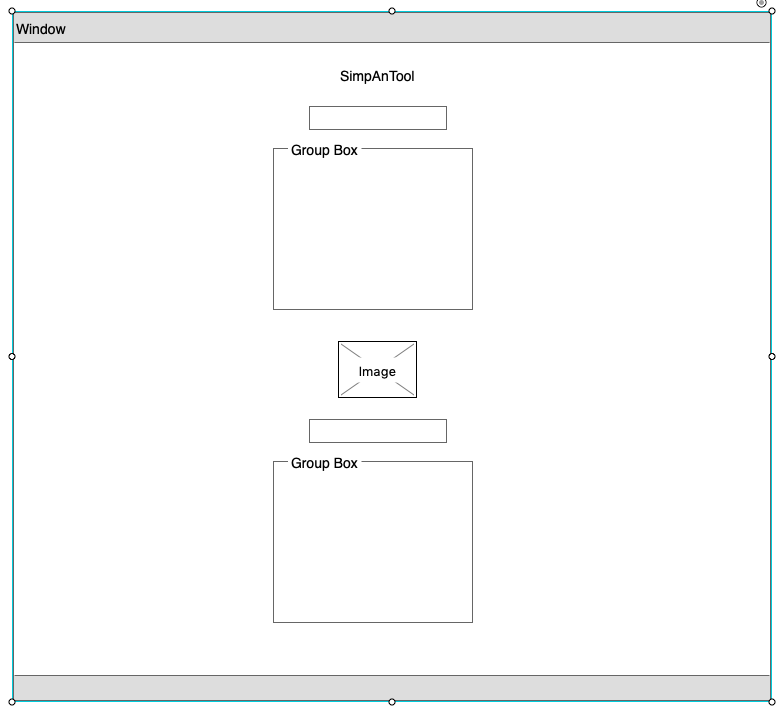
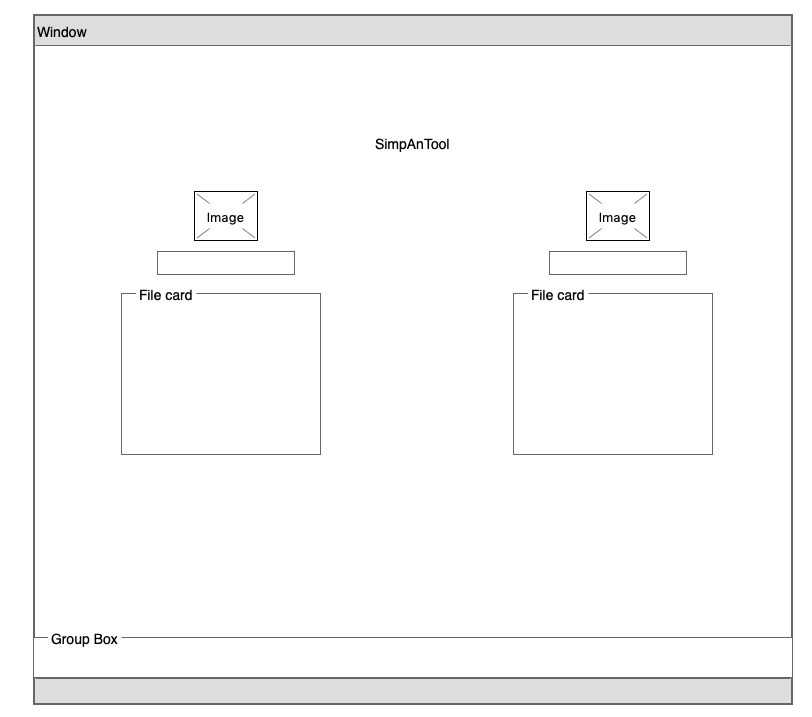
Second phase

diff --git a/client-side/src/container/App.js b/client-side/src/container/App.js
@@ -3,10 +3,10 @@ import { useState, useEffect } from 'react';
 import './App.css';
 import File from '../presentational/file';
 import logo from '../images/logo.png';
-import box from '../images/boxingGloves.jpg';
 import idNum from '../images/idNumber.png';
 import TextField from '@material-ui/core/TextField';
 import { makeStyles } from '@material-ui/core/styles';
+import Box from '@material-ui/core/Box';
 
 function App() {
 
@@ -16,7 +16,15 @@ function App() {
       marginLeft: theme.spacing(1),
       marginRight: theme.spacing(1),
       backgroundColor: 'white',
-      borderColor: 'black'
+      borderColor: 'black',
+    },
+    boxLeft: {
+      float: 'left',
+      marginTop: '3em'
+    },
+    boxRight: {
+      float: 'right',
+      marginTop: '2em'
     }
   }));
 
@@ -59,9 +67,9 @@ function App() {
 
   return (
     <div className="App">
-      <img src={logo} alt="logo"></img>
+      <img src={logo} alt="logo" style={{marginTop: '3em'}}></img>
       <br/>
-      {/* <label htmlFor="id">Search by ID number</label> */}
+      <Box width="45%" className={classes.boxLeft}>
       <img src={idNum} alt="Idnum"></img>
       <br/>
       <TextField
@@ -78,11 +86,9 @@ function App() {
       {filterFiles.length > 0 ? filterFiles.map( file => {
         return <File key={file.id} file={file}></File>
       }) : <h1><span role="img" aria-label="boom">💥</span>No record matches the ID Number!!</h1>}
+      </Box>
       <br/>
-      <img src={box} alt="box" style={{width: '5em'}}></img>
-      <br/>
-      <br/>
-      <br/>
+      <Box width="45%" className={classes.boxRight}>
       <img src={idNum} alt="Idnum"></img>
       <br />
       <TextField
@@ -96,10 +102,15 @@ function App() {
         margin="normal"
         variant="outlined"
       />
-      {/* <input type="number" onChange={handleChangeSecond}></input> */}
       {filterFilesSecond.length > 0 ? filterFilesSecond.map(file => {
         return <File key={file.id} file={file}></File>
       }) : <h1><span role="img" aria-label="boom">💥</span>No record matches the ID Number!!</h1>}
+      </Box>
+      <footer className="footer">
+        <p>Vytautas Klimavicius<span role="img" aria-label="copyright">©</span></p>
+        <p>Contact information: <a href="mailto:vyklimavicius@gmail.com">
+          vyklimavicius@gmail.com</a>.</p>
+      </footer>
     </div>
   );
 }

diff --git a/client-side/src/container/App.css b/client-side/src/container/App.css
@@ -1,10 +1,25 @@
 body {
-  margin: 7em 1em 1em 1em ;
-  background-image: url('../images/background.png');
-  background-size: 120%;
+  background-image: url('../images/background.jpg');
+  background-size: 100%;
   background-attachment: fixed;
 }
 .App {
   text-align: center;
+}
+
+.footer {
+  display: block;
+  color: white;
+  border: 2px solid black;
+  position: fixed;
+  width: 100%;
+  bottom: 1px;
+  background-color: black;
+  font-family: monospace;
+  font-size: 15px;
+}
+
+.footer a{
+  color: blueviolet;
 }
 

diff --git a/client-side/src/presentational/file.js b/client-side/src/presentational/file.js
@@ -21,8 +21,8 @@ const File = (props) => {
     const [cssStyle, setCssStyle] = useState({ 
         backgroundColor: 'white', 
         fontFamily: "monospace",
-        margin:"auto",
-        width: "50%",
+        margin:"2em 20em 3em 9em",
+        width: "70%",
         height: "40%",
         boxShadow: '5px 10px'
     });

diff --git a/README.md b/README.md
@@ -1,5 +1,10 @@
 - PROJECT LIMBIK
 
+SimpAnTool
+
+Create a simple analysis tool to allow a user to search, examine and compare the data. 
+
+
 First Phase - Backend:
 
 1. Design and set Backend.
@@ -14,4 +19,27 @@ Second Phase - Frontend:
 2. Display data.
 3. Search Filters.
 4. Filter only for targeting process.(First Layer)
+
+
+** User story:
+
+- Search and filter files based on ID.
+- Display data for single or multiple files.
+- Search filter for targeting properties(First layer).
+
+** Tools:
+
+Client side:
+React
+Material-UI
+
+Server Side:
+Node.js
+
+Set it up:
+
+1. Open server-side and run npm i and npm start.
+1. Open client-side and run npm i and npm start.
+
+Search!!
 
